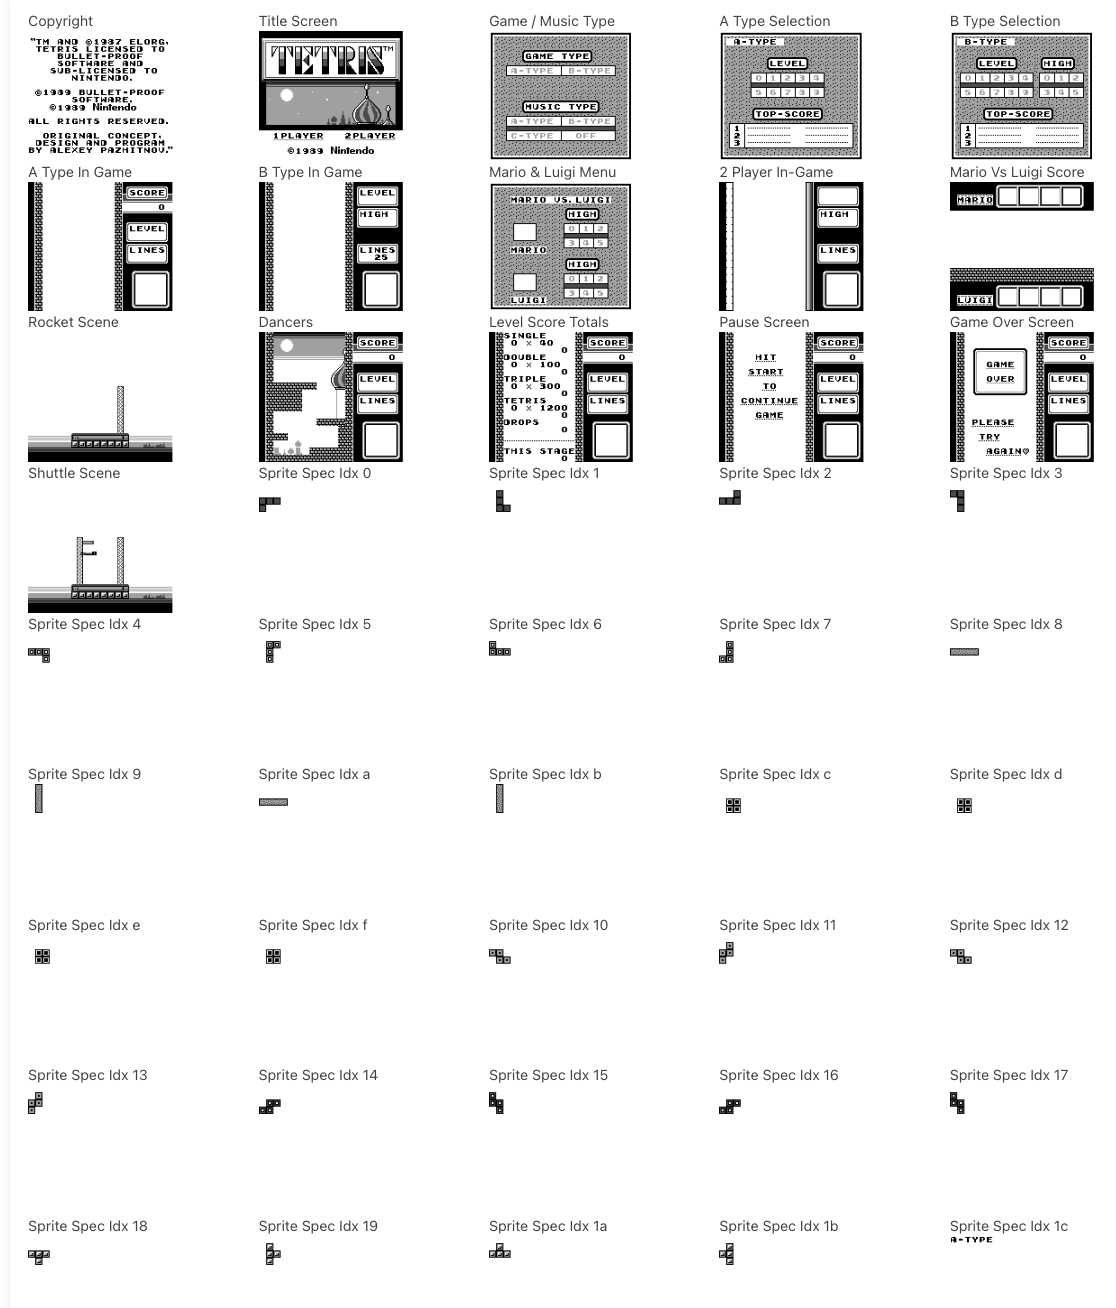
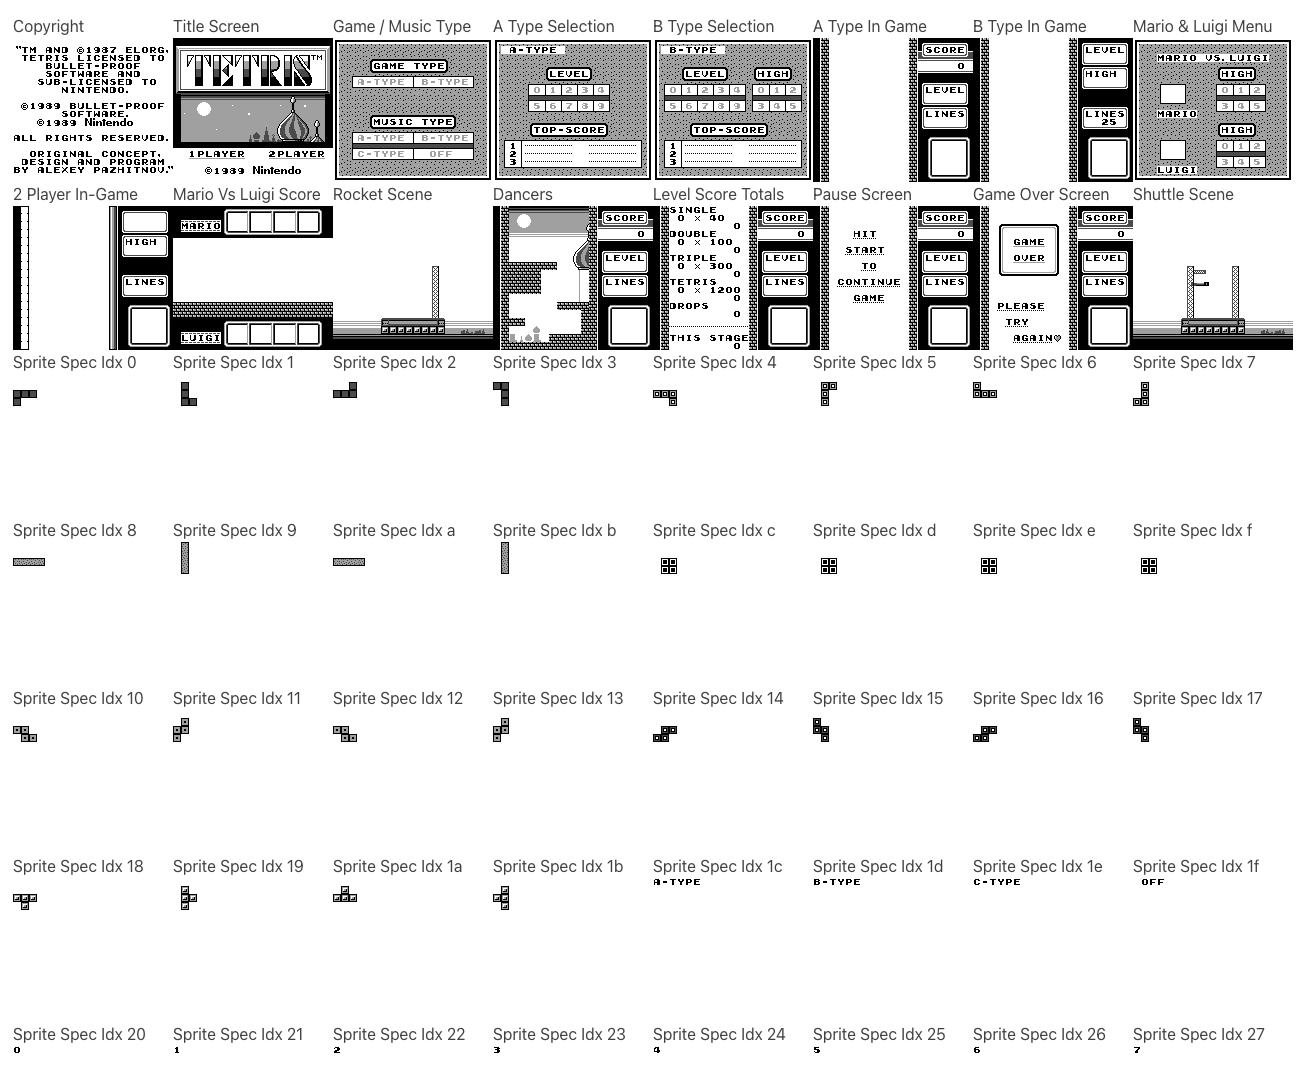
updated docs gfx with screens closer to each other

diff --git a/web/index.html b/web/index.html
@@ -10,7 +10,7 @@
                 <div class="box container is-flex" style="flex-wrap:wrap">
                     <div v-for="screen of screens">
                         <div>{{ screen.name }}</div>
-                        <canvas :id="screen.name+' map'" width="256" height="144"></canvas>
+                        <canvas :id="screen.name+' map'" width="160" height="144"></canvas>
                         <!--canvas :id="screen.name+' data'" width="256" height="96"></canvas-->
                     </div>
                 </div>
@@ -54,7 +54,7 @@
 
                     this.drawBytes(this.memory.slice(0x8000, 0x9800), tiledata_canvas, 32, 32, 12, false);
                     let layoutBytes = this.populateLayout();
-                    this.drawBytes(layoutBytes, tilemap_canvas, 32, 32, 18, screen.isGBC);
+                    this.drawBytes(layoutBytes, tilemap_canvas, 32, 20, 18, screen.isGBC);
                 }
 
                 simpleCopy(addr, dest, numBytes, srcLoc, destLoc) {
